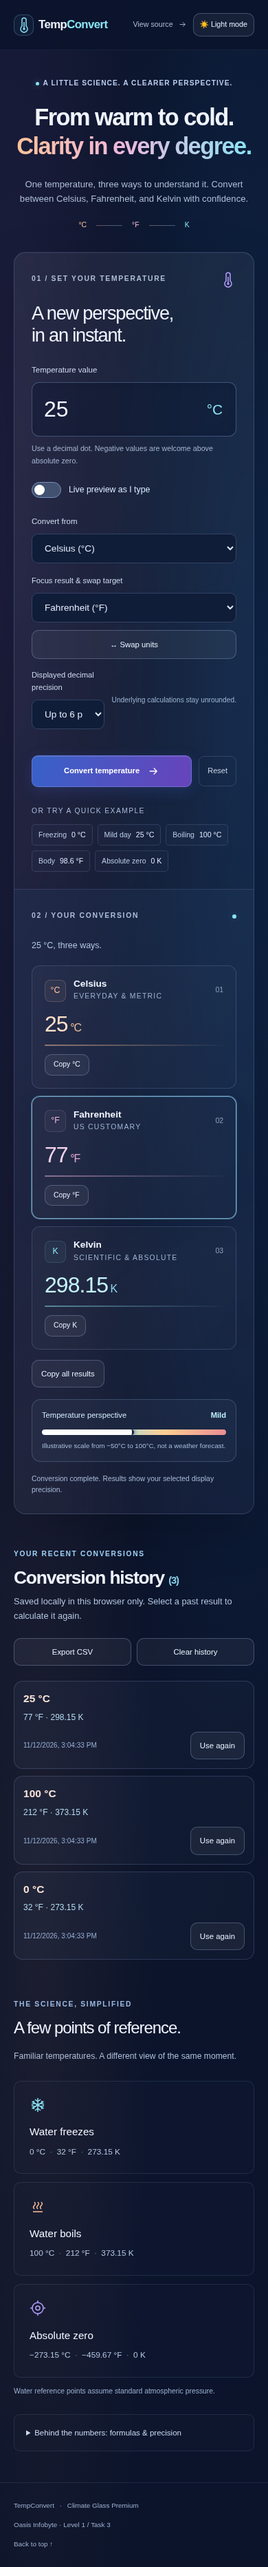
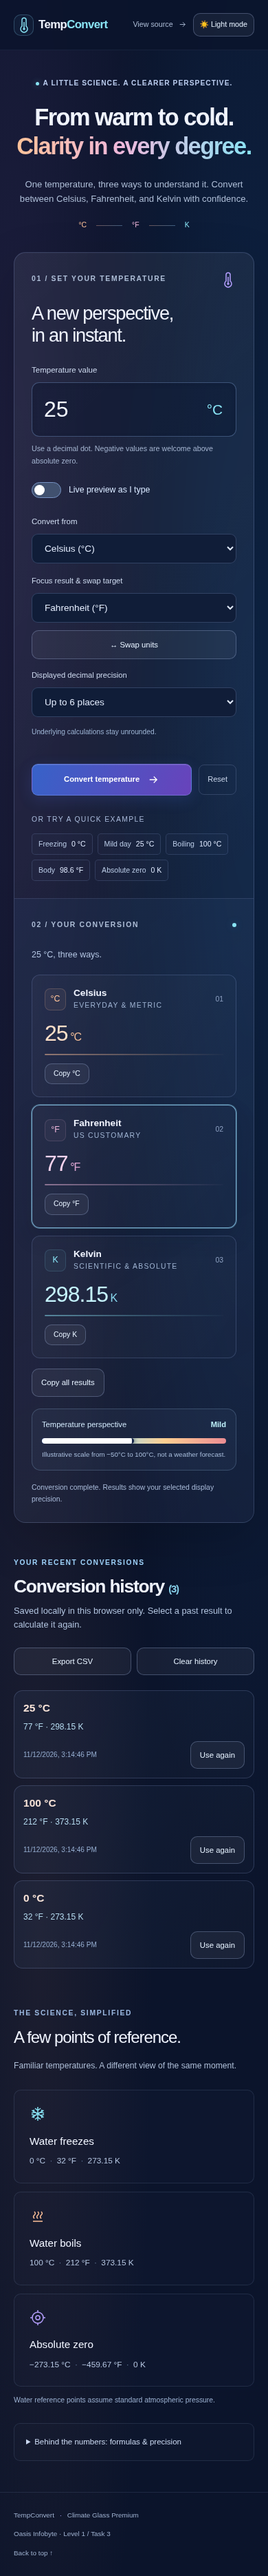
Keep precision labels readable on mobile

diff --git a/WebDev-L1-TemperatureConverter/styles.css b/WebDev-L1-TemperatureConverter/styles.css
@@ -184,6 +184,7 @@ button:disabled{opacity:.48!important;cursor:not-allowed!important;transform:non
 .advanced-controls select{min-height:42px}
 .advanced-controls .tool-button{flex:0 0 auto;min-height:42px;white-space:nowrap;padding-inline:13px}
 .precision-control{align-items:center;margin:15px 0 4px}
+.precision-control>div{min-width:170px}
 .precision-control select{width:100%}
 .precision-control p{font-size:.64rem;color:#9db4d3;max-width:145px;margin:20px 0 0}
 .focused-result{border-color:#95d9ffb8;box-shadow:0 0 0 1px #9ce6ff55,0 14px 30px #08112429}

diff --git a/TESTING.md b/TESTING.md
@@ -25,6 +25,7 @@ Tests used system Chromium through Python Playwright and a static server mountin
 | `tests/feature-check.py` | **22 scenario groups passed**, including every filter/planner/FAQ option, clipboard contents/fallbacks, CSV contents, all swaps/precision settings, history and both themes |
 | `tests/eduspark-apps.py` | **17 scenario groups passed**, covering the root hub, course pages, separate role landings, learner/admin workflows and seven widths |
 | `tests/submission-audit.py` | **14 scenario groups passed**: 11 HTML routes, 77 viewport checks, 26 distinct local targets, 9 static course entries, 18 learner course entries, resume downloads and extended cross-app regressions; no application console errors, page errors or failed assets |
+| Precision text follow-up | **42 checks passed**: all 3 precision options at 7 widths in both themes, with selected text fitting the native control and expected rounded output; refreshed both converter captures |
 | Final external destinations | All **9 distinct HTTPS destinations in the HTML pages returned HTTP 200**, including stable `main` source URLs |
 | Syntax / whitespace checks | JavaScript syntax checks and `git diff --check` passed; resume PDF is classified binary to preserve its xref bytes |
 
@@ -86,6 +87,7 @@ Live preview does not save until Convert. All 9 source/target swap combinations,
 4. Corrected the one public-resume project-stack line against its linked public repository; preserved qualifications/layout and added binary PDF handling in `.gitattributes`.
 5. Corrected stale merged-PR, resume-required and unexecuted-test statements in the READMEs/checklist.
 6. Added the submission audit to CI and changed its static server to exercise `/OIBSIP/`. The browser PDF check verifies the actual preview URL rather than waiting for the built-in PDF viewer to emit an HTML load event.
+7. Gave the converter precision control sufficient width after final mobile screenshot review found its selected text clipped. All three options remain readable at the seven audited widths in both themes; calculations and stored values are unchanged.
 
 No completed page was redesigned. No course, planner, FAQ, portfolio project or converter feature was deleted.
 

diff --git a/LEVEL1_SUBMISSION_CHECKLIST.md b/LEVEL1_SUBMISSION_CHECKLIST.md
@@ -58,14 +58,14 @@ The three original task pages are static and do not require installation. The ex
 
 ## Automated QA
 
-A GitHub Actions workflow, `.github/workflows/verify-oibsip-level1.yml`, is configured for pushes and PRs. It runs:
+A GitHub Actions workflow, `.github/workflows/verify-oibsip-level1.yml`, is configured for pushes and PRs. It mounts the checkout under `/OIBSIP/` and runs:
 
 ```sh
 node --test tests/converter.test.cjs
-python tests/browser-check.py --base-url http://127.0.0.1:8000 --chromium /path/to/chromium
-python tests/feature-check.py --base-url http://127.0.0.1:8000 --chromium /path/to/chromium
-python tests/eduspark-apps.py --base-url http://127.0.0.1:8000 --chromium /path/to/chromium
-python tests/submission-audit.py --base-url http://127.0.0.1:8000 --chromium /path/to/chromium
+python tests/browser-check.py --base-url http://127.0.0.1:8000/OIBSIP --chromium /path/to/chromium
+python tests/feature-check.py --base-url http://127.0.0.1:8000/OIBSIP --chromium /path/to/chromium
+python tests/eduspark-apps.py --base-url http://127.0.0.1:8000/OIBSIP --chromium /path/to/chromium
+python tests/submission-audit.py --base-url http://127.0.0.1:8000/OIBSIP --chromium /path/to/chromium
 ```
 
 The script collection checks responsive widths, real links/downloads, keyboard behavior, converter formulas and optional app workflows. **Always check the latest GitHub Actions job results before claiming the current commit passed full browser QA.** The final local audit includes the current resume, hub, course pages and role demos, including a local `/OIBSIP/` path. See TESTING.md for actual results; the workflow now repeats the repository-subpath audit.
